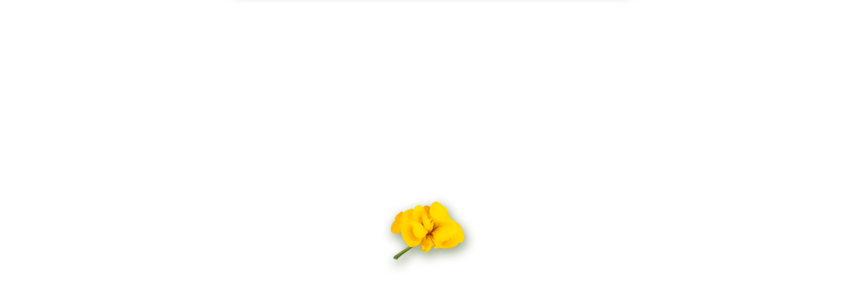
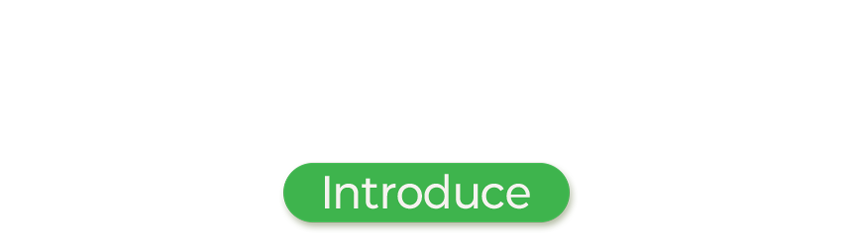
1차 마무리

Changed region(s): [[0.3052, 0.691, 0.6714, 0.9914]]

diff --git a/index.html b/index.html
@@ -32,10 +32,10 @@
     </script>
 
     <meta property="og:image" content="img2/metaimg.png" />
-    <title>중고등부 새친구의 날</title>
-    <meta property="og:url" content="https://teenager-invitation.netlify.app/" />
-    <meta property="og:title" content="안디옥교회 중고등부 새친구의 날" />
-    <meta property="og:description" content="구미안디옥교회 5/31(토)" />
+    <title>새생명 초청 주일</title>
+    <meta property="og:url" content="https://newcomer-june.netlify.app/" />
+    <meta property="og:title" content="안디옥교회 새생명 초청 주일" />
+    <meta property="og:description" content="안디옥교회 6/29(일)" />
     <meta name="apple-mobile-web-app-capable" content="yes" />
     <meta name="theme-color" content="#000000" />
 </head>
@@ -88,35 +88,37 @@
             <div>
                     <img class="first-part reveal" src="img2/11.png" alt="leap1" />
             </div>
-            <div>
-                <img class="first-part reveal" src="img2/12.png" alt="" />
-            </div>
+            <!-- 12 : 구미, 13: 서울 -->
             <div>
                 <a href="https://naver.me/xv3DRTFc" target="_blank">
+                    <img class="first-part reveal" src="img2/12.png" alt="" />
+                </a>
+            </div>
+            <div>
+                <a href="https://naver.me/FgHh36H4" target="_blank">
                     <img class="first-part reveal" src="img2/13.png" alt="" />
-                </a>    
+                </a>
             </div>
             <div>
                 <img class="first-part reveal" src="img2/14.png" alt="leap1" />
             </div>
             <div>
-                <a href="https://naver.me/FgHh36H4" target="_blank">
-                    <img class="first-part reveal" src="img2/15.png" alt="leap1" />
+                <img class="first-part reveal" src="img2/15.png" alt="leap1" />
+            </div>
+            <div>
+                <a href="http://antiochi.org" target="_blank">
+                    <img class="first-part reveal" src="img2/16.png" alt="leap1" />    
                 </a>
             </div>
-            <div>
-                    <img class="first-part reveal" src="img2/16.png" alt="leap1" />
-            </div>
-            <div>
+            <!-- <div>
                 <a href="https://naver.me/5W9v6F6L" target="_blank">
                     <img class="first-part reveal" src="img2/17.png" alt="leap1" />
-                </a>    
-            </div>
+                </a>
+            </div> -->
             <!-- <div>
                     <img class="first-part reveal" src="img2/18.png" alt="leap1" />
             </div>  -->
             <!-- <div>
-                <a href="http://antiochi.org" target="_blank">
                     <img class="first-part reveal" src="img2/19.png" alt="leap1" />
                 </a>
             </div>
@@ -124,9 +126,9 @@
                 <img class="first-part reveal" src="img2/20.png" alt="leap1" />
             </div> -->
 
-            <div class="video-container">
-                <iframe width="560" height="560" src="https://www.youtube.com/embed/ck-Dl6Mcq_I?si=sllfEGM6e8sGN45R" title="YouTube video player" frameborder="0" allow="accelerometer; autoplay; clipboard-write; encrypted-media; gyroscope; picture-in-picture; web-share" referrerpolicy="strict-origin-when-cross-origin" allowfullscreen></iframe>
-                <iframe width="560" height="560" src="https://www.youtube.com/embed/Dm89UpFcHVQ?si=Jg-sdgL7nxkouIlj" title="YouTube video player" frameborder="0" allow="accelerometer; autoplay; clipboard-write; encrypted-media; gyroscope; picture-in-picture; web-share" referrerpolicy="strict-origin-when-cross-origin" allowfullscreen></iframe>
+            <div class="video-container" style="width: 90%;">
+                <iframe width="560" height="580" src="https://www.youtube.com/embed/ck-Dl6Mcq_I?si=sllfEGM6e8sGN45R" title="YouTube video player" frameborder="0" allow="accelerometer; autoplay; clipboard-write; encrypted-media; gyroscope; picture-in-picture; web-share" referrerpolicy="strict-origin-when-cross-origin" allowfullscreen></iframe>
+                <iframe width="560" height="580" src="https://www.youtube.com/embed/Dm89UpFcHVQ?si=Jg-sdgL7nxkouIlj" title="YouTube video player" frameborder="0" allow="accelerometer; autoplay; clipboard-write; encrypted-media; gyroscope; picture-in-picture; web-share" referrerpolicy="strict-origin-when-cross-origin" allowfullscreen></iframe>
             </div>
 
             <div id="information1">
@@ -135,7 +137,7 @@
                 </a>
                 <a id="copyUrl" href="#" class="copyText copyUrl nanum-font">링크 복사</a>
                 <div>
-                    <textarea id="url" readonly="">https://teenager-invitation.netlify.app/</textarea>
+                    <textarea id="url" readonly="">https://newcomer-june.netlify.app/</textarea>
                     <script>
                         $(".copyUrl").click(function () {
                             $("#url").select();
@@ -152,7 +154,7 @@
                 <script src="https://t1.kakaocdn.net/kakao_js_sdk/2.1.0/kakao.min.js" integrity="sha384-dpu02ieKC6NUeKFoGMOKz6102CLEWi9+5RQjWSV0ikYSFFd8M3Wp2reIcquJOemx" crossorigin="anonymous"></script>
                 <script>
                     if (!Kakao.isInitialized()) {
-                        Kakao.init("b9d626cc4e7bdf983a794510902621bd");
+                        Kakao.init("86831dfcad2cf6f0af75f4b5e2c95965");
                     }
                     console.log("Kakao initialized:", Kakao.isInitialized());
             
@@ -160,7 +162,7 @@
                         console.log("shareMessage called");
                         try {
                             Kakao.Share.sendScrap({
-                                requestUrl: "https://teenager-invitation.netlify.app/",
+                                requestUrl: "https://newcomer-june.netlify.app/",
                             });
                             console.log("Share request sent");
                         } catch (error) {
@@ -168,12 +170,12 @@
                         }
                     }
                 </script>
-                <!-- <a href="javascript:shareMessage()" class="share-btn shadow-small icon icon-round no-border icon-xs">
+                <a href="javascript:shareMessage()" class="share-btn shadow-small icon icon-round no-border icon-xs">
                     <img src="https://developers.kakao.com/assets/img/about/logos/kakaotalksharing/kakaotalk_sharing_btn_medium.png" class="sns-logo" alt="카카오톡 공유 보내기 버튼" />
                     <a href="javascript:shareMessage()" class="copyText copyUrl nanum-font">
-                        카카오톡 공유</a>
-                </a> -->
-
+                        카카오톡 공유
+                    </a>
+                </a>
             </div>
 
             <div id="information" class="footer-socials" style="padding-top: 50px">
